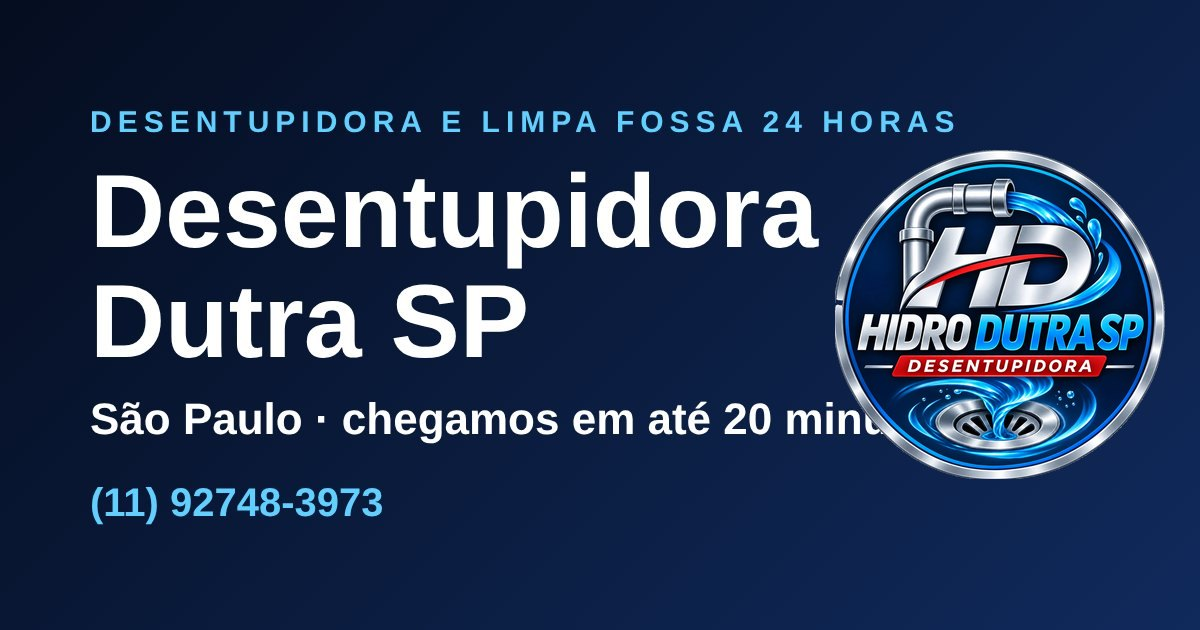
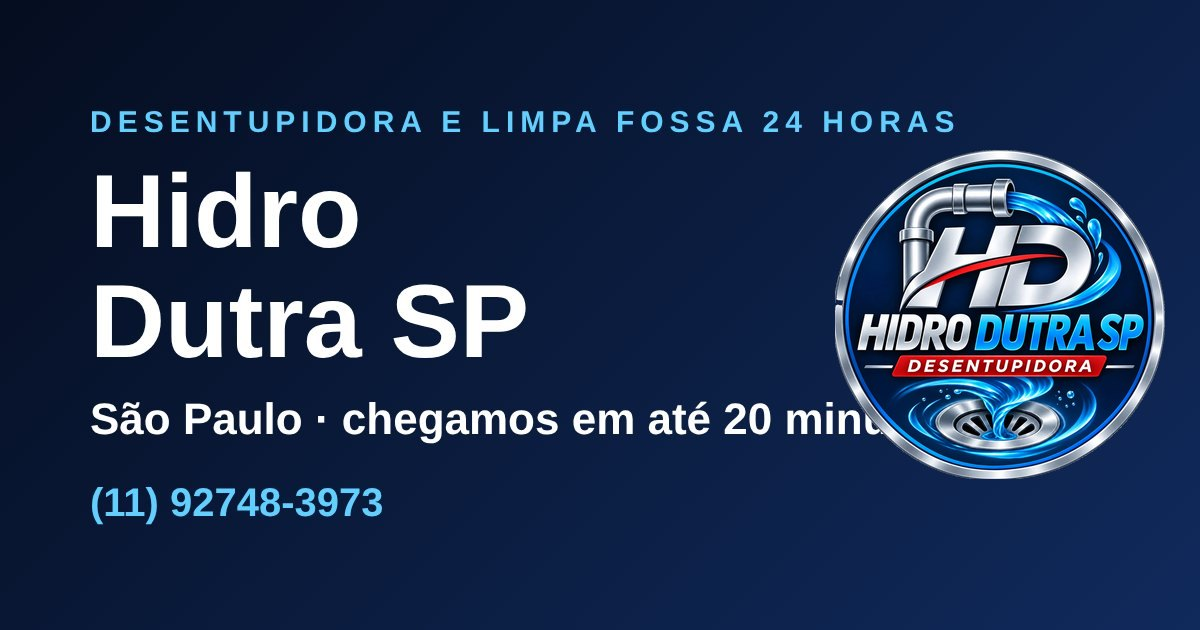
Define o domínio oficial e o nome Hidro Dutra em todo o site
Canonical, sitemap, robots.txt e dados estruturados passam a usar o domínio
publicado (com www). O nome nos títulos e textos passa a ser o mesmo da logo.

Claude-Session: https://claude.ai/code/session_016urscxa7Dk6YD5cftTG8rF

Changed region(s): [[0.0925, 0.2714, 0.6783, 0.4222]]

diff --git a/src/data/servicos.ts b/src/data/servicos.ts
@@ -32,7 +32,7 @@ export const servicos: Servico[] = [
     categoria: 'Desentupimento',
     intro: [
       'Pia de cozinha entupida quase sempre é gordura. Ela desce líquida junto com a água quente, esfria dentro do cano e vai grudando na parede da tubulação até fechar a passagem. No lavatório do banheiro o vilão costuma ser cabelo misturado com sabonete e creme dental.',
-      'A Desentupidora Dutra SP atende casas, apartamentos, restaurantes e comércios em toda a capital. Trabalhamos com máquina de cabo flexível, que entra pelo próprio ralo ou pelo sifão e limpa o cano por dentro, até a água voltar a escoar normalmente.',
+      'A Hidro Dutra SP atende casas, apartamentos, restaurantes e comércios em toda a capital. Trabalhamos com máquina de cabo flexível, que entra pelo próprio ralo ou pelo sifão e limpa o cano por dentro, até a água voltar a escoar normalmente.',
     ],
     sinais: [
       'Água demorando para descer ou parada na cuba',
@@ -155,7 +155,7 @@ export const servicos: Servico[] = [
     categoria: 'Desentupimento',
     intro: [
       'Quando mais de um ponto da casa começa a escoar mal ao mesmo tempo, o problema já não está no ralo ou na pia: está no cano que recebe todos eles. Gordura endurecida, raiz de árvore, entulho de obra e cano com caimento errado são as causas mais comuns.',
-      'A Desentupidora Dutra SP desobstrui tubulações de 40 mm a grandes diâmetros em casas, prédios, comércios e indústrias de São Paulo. Usamos máquinas rotativas com cabos e ponteiras para cada situação e, em redes longas ou muito sujas, hidrojateamento.',
+      'A Hidro Dutra SP desobstrui tubulações de 40 mm a grandes diâmetros em casas, prédios, comércios e indústrias de São Paulo. Usamos máquinas rotativas com cabos e ponteiras para cada situação e, em redes longas ou muito sujas, hidrojateamento.',
     ],
     sinais: [
       'Vários ralos e pias lentos ao mesmo tempo',
@@ -360,7 +360,7 @@ export const servicos: Servico[] = [
     categoria: 'Limpa fossa e limpeza',
     intro: [
       'A fossa recebe todo o esgoto do imóvel e, com o tempo, o lodo se acumula no fundo até não caber mais nada. Quando isso acontece, o esgoto começa a voltar para dentro de casa ou a minar no terreno. A solução é o esgotamento com caminhão limpa fossa.',
-      'A Desentupidora Dutra SP faz a limpeza de fossa séptica, fossa negra, sumidouro e poços de recalque em casas, chácaras, condomínios, comércios e indústrias de São Paulo. O caminhão a vácuo suga todo o conteúdo por mangote, sem contato com o resíduo e sem sujeira no local.',
+      'A Hidro Dutra SP faz a limpeza de fossa séptica, fossa negra, sumidouro e poços de recalque em casas, chácaras, condomínios, comércios e indústrias de São Paulo. O caminhão a vácuo suga todo o conteúdo por mangote, sem contato com o resíduo e sem sujeira no local.',
     ],
     sinais: [
       'Mau cheiro forte perto da fossa ou nos ralos',

diff --git a/src/data/site.ts b/src/data/site.ts
@@ -5,8 +5,8 @@
 const PHONE_DIGITS = '5511927483973';
 
 export const site = {
-  name: 'Desentupidora Dutra SP',
-  shortName: 'Dutra SP',
+  name: 'Hidro Dutra SP',
+  shortName: 'Hidro Dutra SP',
   url: (import.meta.env.SITE ?? '').replace(/\/$/, ''),
   city: 'São Paulo',
   // Como a região aparece nos textos ("em São Paulo")

diff --git a/src/styles/global.css b/src/styles/global.css
@@ -408,7 +408,7 @@ body:has(.nav-mobile[open]) .float-cta { display: none; }
   }
 }
 
-/* ===== Desentupidora Dutra SP ===== */
+/* ===== Hidro Dutra SP ===== */
 :root { --logo-bg: var(--blue-500); --logo-drop: #fff; }
 .logo { display: inline-flex; align-items: center; gap: 10px; color: #fff; }
 .logo-mark { flex: none; }

diff --git a/README.md b/README.md
@@ -1,6 +1,6 @@
-# Desentupidora Dutra SP · site
+# Hidro Dutra SP · site
 
-Site da Desentupidora Dutra SP (desentupidora e limpa fossa 24h em São Paulo, capital), com foco em SEO local
+Site da Hidro Dutra SP (desentupidora e limpa fossa 24h em São Paulo, capital), com foco em SEO local
 e tráfego de Google Ads. Feito com [Astro](https://astro.build): gera páginas estáticas e é publicado na Vercel.
 
 ## Rodar localmente
